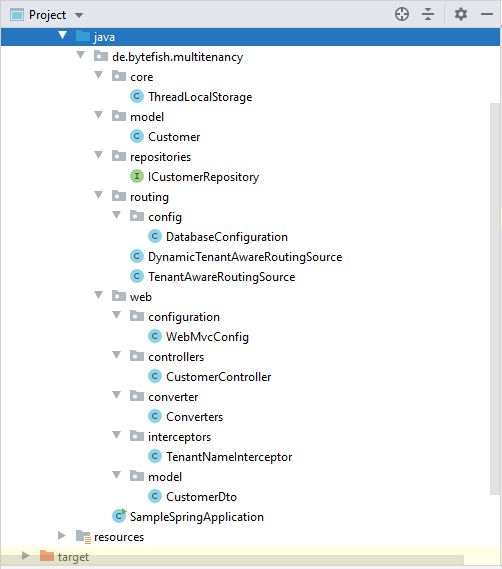
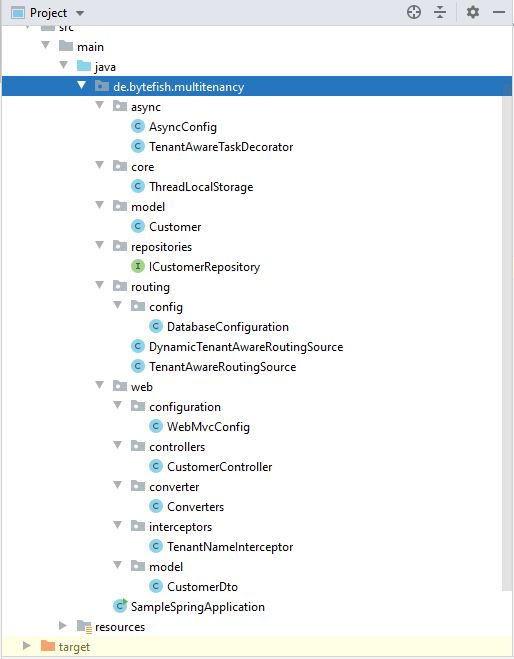
Adding Asynchronous Processing

Changed region(s): [[0.0, 0.0, 1.0, 1.0], [0.9562, 0.8664, 1.0, 0.8963]]

diff --git a/blog/spring_boot_multitenancy_mvc.md b/blog/spring_boot_multitenancy_mvc.md
@@ -137,6 +137,11 @@ It's useful to take a look at the Project structure first:
 
 The purpose of the various classes: 
 
+* ``async``
+    * ``AsyncConfig``
+        * Provides a TaskExecutor decorated for TenantAware Processing.
+    * ``TenantAwareTaskDecorator``
+        * Adds a Spring Boot ``TaskDecorator``, that passes the TenantName to a Child Thread.
 * ``core``
     * ``ThreadLocalStorage``
         * Stores the Tenant Identifier in a ``ThreadLocal``.
@@ -157,7 +162,7 @@ The purpose of the various classes:
 * ``web``
     * ``configuration``
         * ``WebMvcConfig``
-                * Configures the Spring MVC interceptors.
+            * Configures the Spring MVC interceptors.
     * ``controllers``
         * ``CustomerController``
             * Implements a REST Webservice for persisting and deleting Customers.
@@ -555,7 +560,7 @@ public class SampleSpringApplication extends SpringBootServletInitializer {
 		Map<Object,Object> targetDataSources = new HashMap<>();
 
 		targetDataSources.put("TenantOne", tenantOne());
-		//targetDataSources.put("TenantTwo", tenantTwo());
+		targetDataSources.put("TenantTwo", tenantTwo());
 
 		dataSource.setTargetDataSources(targetDataSources);
 
@@ -563,11 +568,6 @@ public class SampleSpringApplication extends SpringBootServletInitializer {
 
 		return dataSource;
 	}
-//
-//	@Bean
-//	public DataSource dataSource() {
-//		return new DynamicTenantAwareRoutingSource("D:\\tenants.json");
-//	}
 
 	public DataSource tenantOne() {
 
@@ -670,6 +670,143 @@ Querying the ``TenantTwo`` database will now return the inserted customer:
 > curl -H "X-TenantID: TenantTwo" -X GET http://localhost:8080/customers
 
 [{"id":1,"firstName":"Hans","lastName":"Wurst"}]
+```
+
+## Resolving the Tenant in Asynchronous Methods ##
+
+There is a problem though with the ``ThreadLocal`` in the ``ThreadLocalStorage``: Asynchronous methods. 
+
+Spring Boot has a very cool way for asynchronous processing, which is by simply using the ``@Async`` annotation. In the Spring Boot 
+implementation a new or existing thread is likely to be spun up from the ``ThreadPoolTaskExecutor``, thus the Tenant Name in the 
+``ThreadLocal`` will be empty. 
+
+Let's fix this!
+
+What we could do is to add a ``TaskDecorator`` to Spring Boots ``ThreadPoolTaskExecutor``, and pass in the Tenant Name from the Parent Thread:
+
+```java
+// Copyright (c) Philipp Wagner. All rights reserved.
+// Licensed under the MIT license. See LICENSE file in the project root for full license information.
+
+package de.bytefish.multitenancy.async;
+
+import de.bytefish.multitenancy.core.ThreadLocalStorage;
+import org.springframework.core.task.TaskDecorator;
+
+public class TenantAwareTaskDecorator implements TaskDecorator {
+
+    @Override
+    public Runnable decorate(Runnable runnable) {
+        String tenantName = ThreadLocalStorage.getTenantName();
+        return () -> {
+            try {
+                ThreadLocalStorage.setTenantName(tenantName);
+                runnable.run();
+            } finally {
+                ThreadLocalStorage.setTenantName(null);
+            }
+        };
+    }
+}
+```
+
+And in the ``AsyncConfigurerSupport`` we could add the ``TenantAwareTaskDecorator`` to the ``ThreadPoolTaskExecutor``. This 
+configuration will be loaded by Spring in the Startup phase:
+
+```java
+// Copyright (c) Philipp Wagner. All rights reserved.
+// Licensed under the MIT license. See LICENSE file in the project root for full license information.
+
+package de.bytefish.multitenancy.async;
+
+import org.springframework.context.annotation.Configuration;
+import org.springframework.scheduling.annotation.AsyncConfigurerSupport;
+import org.springframework.scheduling.concurrent.ThreadPoolTaskExecutor;
+
+import java.util.concurrent.Executor;
+
+@Configuration
+public class AsyncConfig extends AsyncConfigurerSupport {
+
+    @Override
+    public Executor getAsyncExecutor() {
+        ThreadPoolTaskExecutor executor = new ThreadPoolTaskExecutor();
+
+        executor.setThreadNamePrefix("TenantAwareTaskExecutor-");
+        executor.setTaskDecorator(new TenantAwareTaskDecorator());
+        executor.initialize();
+
+        return executor;
+    }
+
+}
+```
+
+To test it, let's add an asynchronous method ``findAllAsync`` to the ``ICustomerRepository``:
+
+```java
+// Copyright (c) Philipp Wagner. All rights reserved.
+// Licensed under the MIT license. See LICENSE file in the project root for full license information.
+
+package de.bytefish.multitenancy.repositories;
+
+import de.bytefish.multitenancy.model.Customer;
+import org.springframework.data.jpa.repository.Query;
+import org.springframework.data.repository.CrudRepository;
+import org.springframework.scheduling.annotation.Async;
+
+import java.util.List;
+import java.util.concurrent.CompletableFuture;
+
+public interface ICustomerRepository extends CrudRepository<Customer, Long> {
+
+    @Async
+    @Query("select c from Customer c")
+    CompletableFuture<List<Customer>> findAllAsync();
+
+}
+```
+
+And add a new endpoint to the ``CustomerController``:
+
+```java
+// ...
+
+@RestController
+public class CustomerController {
+
+    private final ICustomerRepository repository;
+
+    @Autowired
+    public CustomerController(ICustomerRepository repository) {
+        this.repository = repository;
+    }
+
+    // ...
+    
+    @GetMapping("/async/customers")
+    public List<CustomerDto> getAllAsync() throws ExecutionException, InterruptedException {
+        CompletableFuture<List<Customer>> customers = repository.findAllAsync();
+
+        // Return the DTO List:
+        return StreamSupport.stream(customers.get().spliterator(), false)
+                .map(Converters::convert)
+                .collect(Collectors.toList());
+    }
+    
+}
+```
+
+And let's use curl to test it. Does it work?
+
+```
+curl -H "X-TenantID: TenantOne" -X GET http://localhost:8080/async/customers
+```
+
+And surprise... it does work as intended:
+
+```
+[{"id":1,"firstName":"Philipp","lastName":"Wagner"},{"id":2,"firstName":"Max","lastName":"Mustermann"}]
 ```
 
 ## Conclusion ##
